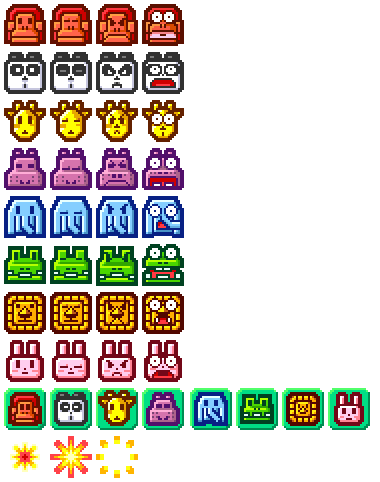
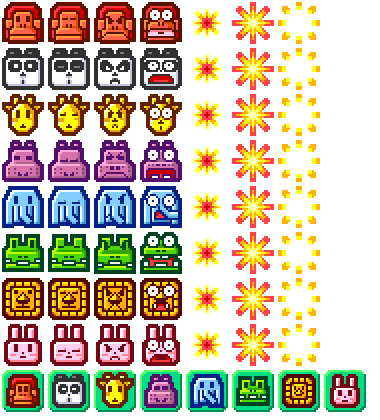
game rank page complete

diff --git a/js/GameMenu.js b/js/GameMenu.js
@@ -1,14 +1,27 @@
 function GameMenu()
 {
 	this.hoverOnButton = false;
+	this.background = null;
+	this.menuAnimation = null;
+
 	this.startupGameMenu = function()
 	{
+		this.background =  new VisualGameObject().startupVisualGameObject(g_ResourceManager.titlescren, 0, 0, 512, 700, 0, 0, 1);
+		this.menuAnimation = new MenuAnimation().startupMenuAnimation();
 		this.startupVisualGameObject(g_ResourceManager.titlescren, 0, 910, 0, 0, 0, 0, 2);
 		return this;
 	}
 
 	this.shutdownGameMenu = function()
     {
+    	if(this.background){
+    		this.background.shutdownVisualGameObject();
+    	}
+
+    	if(this.menuAnimation){
+    		this.menuAnimation.shutdownMenuAnimation();
+    	}
+
         this.shutdownVisualGameObject();
     }
 
@@ -54,10 +67,10 @@ function GameMenu()
 			case 'guide' :
 				g_ApplicationManager.gameGuide = new GameGuide().startupGameGuide();
 				g_ApplicationManager.gameMenu.shutdownGameMenu();
-				g_ApplicationManager.menuAnimation.shutdownMenuAnimation()
 				break
 			case 'rank' :
-				//
+				g_ApplicationManager.rank = new GameRank().startupGameRank();
+				g_ApplicationManager.gameMenu.shutdownGameMenu();
 				break
 			default : 
 		}
@@ -67,29 +80,28 @@ GameMenu.prototype = new VisualGameObject;
 
 function MenuAnimation(){
 	this.initialX = 520;
-	this.initialY = 200;
+	this.initialY = 360;
 	this.distance = 20;
 	this.animals = [];
 	this.startupMenuAnimation = function(){
-		console.log('ye')
 		var _initialX = this.initialX; /*第一只动物的初始位置*/
 		var _initialY = this.initialY;
 		var _distance = this.distance; /*动物间隔距离*/
 		var _animals = this.animals;
-		this.animals.push( new Animal().startupAnimal(g_ResourceManager.animals, 0, 0, 116, 87, _initialX, _initialY + 73, 2, 8, 8) );
-		this.animals.push( new Animal().startupAnimal(g_ResourceManager.animals, 0, 87, 130, 102, _animals[_animals.length - 1].x + _animals[_animals.length - 1].width + _distance, _initialY + 58, 2, 8, 8) );
-		this.animals.push( new Animal().startupAnimal(g_ResourceManager.animals, 0, 189, 178, 70, _animals[_animals.length - 1].x + _animals[_animals.length - 1].width + _distance, _initialY + 90, 2, 10, 10) );
-		this.animals.push( new Animal().startupAnimal(g_ResourceManager.animals, 0, 259, 66, 104, _animals[_animals.length - 1].x + _animals[_animals.length - 1].width + _distance, _initialY + 56, 2, 8, 8) );
-		this.animals.push( new Animal().startupAnimal(g_ResourceManager.animals, 0, 363, 98, 90, _animals[_animals.length - 1].x + _animals[_animals.length - 1].width + _distance, _initialY + 70, 2, 8, 8) );
-		this.animals.push( new Animal().startupAnimal(g_ResourceManager.animals, 0, 453, 52, 102, _animals[_animals.length - 1].x + _animals[_animals.length - 1].width + _distance, _initialY + 58, 2, 8, 8) );
-		this.animals.push( new Animal().startupAnimal(g_ResourceManager.animals, 0, 555, 66, 102, _animals[_animals.length - 1].x + _animals[_animals.length - 1].width + _distance, _initialY + 58, 2, 8, 8) );
-		this.animals.push( new Animal().startupAnimal(g_ResourceManager.animals, 0, 657, 98, 160, _animals[_animals.length - 1].x + _animals[_animals.length - 1].width + _distance, _initialY, 2, 16, 16) );
+		this.animals.push( new Animal().startupAnimal(g_ResourceManager.animals, 0, 0, 116, 87, _initialX, _initialY - 87, 2, 8) );
+		this.animals.push( new Animal().startupAnimal(g_ResourceManager.animals, 0, 87, 130, 102, _animals[_animals.length - 1].x + _animals[_animals.length - 1].width + _distance, _initialY - 102, 2, 8) );
+		this.animals.push( new Animal().startupAnimal(g_ResourceManager.animals, 0, 189, 178, 70, _animals[_animals.length - 1].x + _animals[_animals.length - 1].width + _distance, _initialY - 70, 2, 10) );
+		this.animals.push( new Animal().startupAnimal(g_ResourceManager.animals, 0, 259, 66, 104, _animals[_animals.length - 1].x + _animals[_animals.length - 1].width + _distance, _initialY - 104, 2, 8) );
+		this.animals.push( new Animal().startupAnimal(g_ResourceManager.animals, 0, 363, 98, 90, _animals[_animals.length - 1].x + _animals[_animals.length - 1].width + _distance, _initialY - 90, 2, 8) );
+		this.animals.push( new Animal().startupAnimal(g_ResourceManager.animals, 0, 453, 52, 102, _animals[_animals.length - 1].x + _animals[_animals.length - 1].width + _distance, _initialY - 102, 2, 8) );
+		this.animals.push( new Animal().startupAnimal(g_ResourceManager.animals, 0, 555, 66, 102, _animals[_animals.length - 1].x + _animals[_animals.length - 1].width + _distance, _initialY - 102, 2, 8) );
+		this.animals.push( new Animal().startupAnimal(g_ResourceManager.animals, 0, 657, 98, 160, _animals[_animals.length - 1].x + _animals[_animals.length - 1].width + _distance, _initialY - 160, 2, 16) );
 		return this;
 	}
 
 	this.shutdownMenuAnimation = function(){
-		for(var animal in this.animals){
-			this.animals[animal].shutdownAnimal();
+		for(var i = 0, l = this.animals.length; i < l; i++){
+			this.animals[i].shutdownAnimal();
 		}
 	}
 } 
@@ -97,9 +109,9 @@ function MenuAnimation(){
 function Animal(){
 	this.speed = 50;
 	this.queueLength = 964;
-	this.startupAnimal = function(image, sx, sy, width, height, x, y, z, frameCount, fps)
+	this.startupAnimal = function(image, sx, sy, width, height, x, y, z, frameCount)
 	{
-		this.startupAnimatedGameObject(image, sx, sy, width, height, x, y, z, frameCount, fps);
+		this.startupAnimatedGameObject(image, sx, sy, width, height, x, y, z, frameCount, frameCount);
 		return this;
 	}
 

diff --git a/js/GameRank.js b/js/GameRank.js
@@ -1,4 +1,120 @@
-function GameRank(){
+function GameRank()
+{
+	//array to hold game font objcet from place 1 ~ 9
+	this.rank = []; 
 
+	this.startupGameRank = function()
+	{
+		//generate rank screen background
+		this.startupVisualGameObject(g_ResourceManager.rank, 0, 0, g_ResourceManager.rank.width, g_ResourceManager.rank.height, 0, 0, 1);
+
+		//generate default scores in display
+		var userScoreSet = false;
+		
+		for(var i=0; i<9; i++){
+			var score = (12000 - i*1000).toString();
+			var positionX = score.length < 5? 356:330; 
+			var positionY = 124 + i*52;
+
+			if(!userScoreSet && parseInt(score) < g_score){
+				this.rank.push(new GameFont().startupGameFont(g_score.toString(), 'white', positionX, positionY, 2));
+				userScoreSet = true;
+			}else{
+				this.rank.push(new GameFont().startupGameFont(score, 'yellow', positionX, positionY, 2));
+			}
+			
+		}
+
+		return this;
+	}
+
+	this.mouseclick = function(event)
+	{
+		if(event.offsetX > 146 && event.offsetX < 362 && event.offsetY > 615 && event.offsetY < 658){
+			//hover on exit
+			g_ApplicationManager.gameMenu = new GameMenu().startupGameMenu();
+			this.shutdownGameRank();
+		}
+	}
+
+	this.shutdownGameRank = function()
+	{
+		for(var i=0, l=this.rank.length; i<l; i++){
+			this.rank[i].shutdownGameFont();
+		}
+		this.shutdownVisualGameObject();
+	}
 }
 GameRank.prototype = new VisualGameObject;
+
+function GameFont(){
+	this.font = [];
+	this.places = 0;
+
+	this.startupGameFont = function(string, color, x, y, z)
+	{
+		/**
+			@param string		the number to display
+			@param color		the color of the number to display( 'white', 'yellow' )
+			@param x 			the position on the axis
+			@param y        	The position on the Y axis
+        	@param z        	The z order of the element
+		*/
+		this.places = string.length;
+		for(var i=0, l=string.length; i<l; i++){
+			var _isLastWord = i === l-1? true:false; 
+			var _positionX = x + i*26;
+			this.genFontObject(string[i], color, _positionX, y, z, _isLastWord);
+		}
+
+		return this;
+	}
+
+	this.shutdownGameFont = function(){
+		for(var i=0, l=this.font.length; i<l; i++){
+			this.font[i].shutdownVisualGameObject();
+		}
+	}
+
+	this.genFontObject = function(word, color, x, y, z, isLastWord){
+		var _sy = color === 'white'? 38:2;
+		var _width = isLastWord? 28:26;
+		var _sx = 0;
+
+		switch (word){
+			case '0' :
+				_sx = 2
+				break
+			case '1' :
+				_sx = 34
+				break
+			case '2' :
+				_sx = 66
+				break
+			case '3' :
+				_sx = 98
+				break
+			case '4' :
+				_sx = 130
+				break
+			case '5' :
+				_sx = 162
+				break
+			case '6' :
+				_sx = 194
+				break
+			case '7' :
+				_sx = 226
+				break
+			case '8' :
+				_sx = 258
+				break
+			case '9' :
+				_sx = 290
+				break
+			default :
+		}
+
+		this.font.push(new VisualGameObject().startupVisualGameObject(g_ResourceManager.font, _sx, _sy, _width, 32, x, y, z));
+	}
+}

diff --git a/js/GameGuide.js b/js/GameGuide.js
@@ -4,7 +4,7 @@ function GameGuide()
 	this.menu = null;
 
 	this.startupGameGuide = function(){
-		this.startupVisualGameObject(g_ResourceManager.guide, 0, 0, 512, 700, 0, 0, 3);
+		this.startupVisualGameObject(g_ResourceManager.guide, 0, 0, 512, 700, 0, 0, 2);
 		this.menu = new GameGuideMenu().startupGameGuideMenu();
 		this.guidePage = 1;
 		return this;
@@ -12,8 +12,10 @@ function GameGuide()
 
 	this.shutdownGameGuide = function()
 	{
-		this.shutdownVisualGameObject();
-		this.menu.shutdownGameGuideMenu();
+		if(this.menu){
+			this.menu.shutdownGameGuideMenu();
+		}
+		this.shutdownVisualGameObject();	
 	}
 
 	this.update = function(){
@@ -42,7 +44,6 @@ function GameGuide()
 		if( event.offsetX > 192 && event.offsetX < 320 && event.offsetY > 650 && event.offsetY < 680 ){
 			//exit button hit
 			g_ApplicationManager.gameMenu = new GameMenu().startupGameMenu();
-			g_ApplicationManager.menuAnimation = new MenuAnimation().startupMenuAnimation();
 			this.shutdownGameGuide();
 		}
 

diff --git a/js/ApplicationManager.js b/js/ApplicationManager.js
@@ -9,10 +9,7 @@ function ApplicationManager()
     this.startupApplicationManager = function(canvasWidth, canvasHeight)
     {
         g_ApplicationManager = this;
-        this.background = new VisualGameObject().startupVisualGameObject(g_ResourceManager.titlescren, 0, 0, 512, 700, 0, 0, 1);
         this.gameMenu = new GameMenu().startupGameMenu();
-        this.menuAnimation = new MenuAnimation().startupMenuAnimation();
-        //new AnimatedGameObject().startupAnimatedGameObject(g_ResourceManager.animals, 0, 0, 116, 87, 300, 300, 2, 8, 8)
         this.updateScore();
         return this;
     }

diff --git a/js/Main.js b/js/Main.js
@@ -7,9 +7,11 @@ var g_Resource = [
 	{name:'titlescren', src:'resource/titlescren.png'},
 	{name:'guide', src:'resource/guide.png'},
 	{name:'animals', src:'resource/animals.png'},
-	{name:'panels', src:'resource/panels.png'}
+	{name:'panels', src:'resource/panels.png'},
+	{name:'rank', src:'resource/ranking.png'},
+	{name:'font', src:'resource/font.png'}
 ]
-var g_score = 0;
+var g_score = 22860;
 
 window.onload = init;
 

diff --git a/js/AnimatedGameObject.js b/js/AnimatedGameObject.js
@@ -27,10 +27,7 @@ function AnimatedGameObject()
         this.frameCount = frameCount;
         this.timeBetweenFrames = 1/fps;
         this.timeSinceLastFrame = this.timeBetweenFrames;
-
-        console.log(this.frameWidth)
-    console.log(this.currentFrame)
-
+        
         return this;
     }
 
